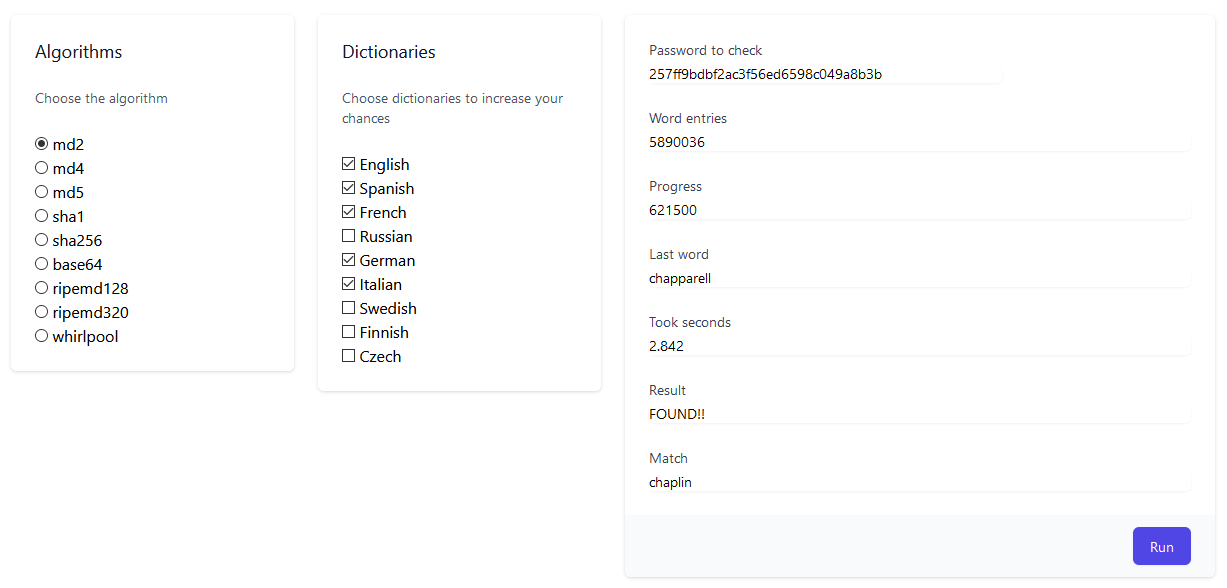
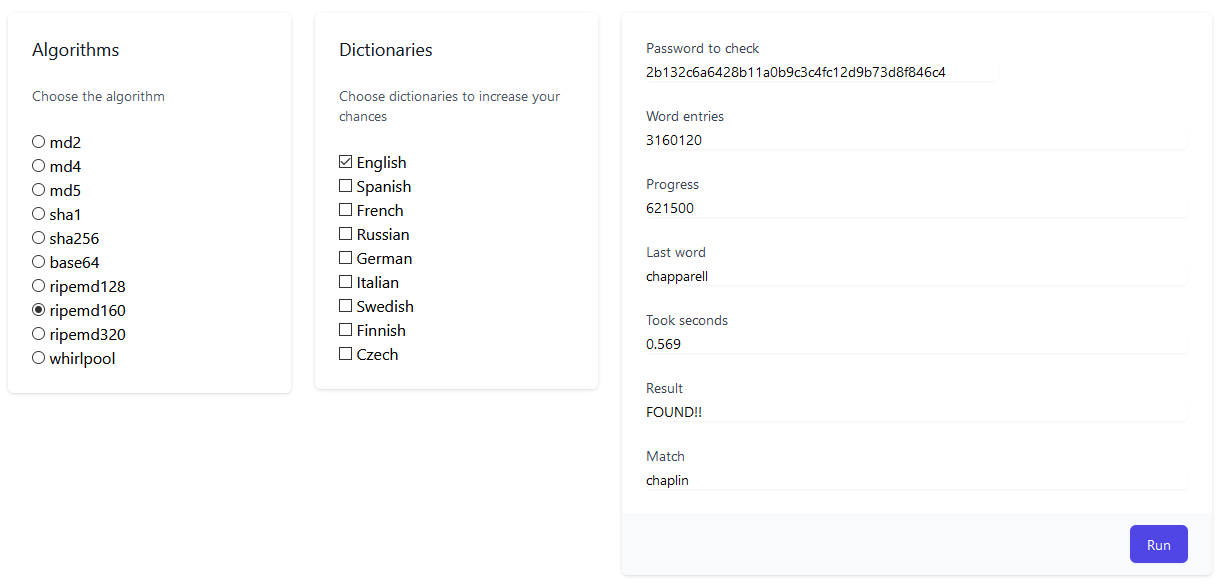
adding support for ripemd160

diff --git a/src/site/index.html b/src/site/index.html
@@ -46,6 +46,10 @@
                                 <label for="rbRipemd128">ripemd128</label>
                               </li>
                               <li>
+                                <input type="radio" id="rbRipemd160" name="rbAlgorithm" value="10"></input>
+                                <label for="rbRipemd160">ripemd160</label>
+                              </li>
+                              <li>
                                 <input type="radio" id="rbRipemd320" name="rbAlgorithm" value="7"></input>
                                 <label for="rbRipemd320">ripemd320</label>
                               </li>

diff --git a/src/ripper_wasm/src/algorithms.rs b/src/ripper_wasm/src/algorithms.rs
@@ -14,6 +14,7 @@ pub mod implementations {
         Ripemd320 = 7,
         Whirlpool = 8,
         Md2 = 9,
+        Ripemd160 = 10,
     }
 
     #[wasm_bindgen]
@@ -47,6 +48,7 @@ pub mod implementations {
     struct DesWrapper {}
     struct Des3Wrapper {}
     struct Ripemd128Wrapper {}
+    struct Ripemd160Wrapper {}
     struct Ripemd320Wrapper {}
     struct WhirlpoolWrapper {}
     struct Md2Wrapper {}
@@ -60,6 +62,7 @@ pub mod implementations {
                 HashAlgorithm::Md4 => Some(Box::new(Md4Wrapper { })),
                 HashAlgorithm::Sha1 => Some(Box::new(Sha1Wrapper { })),
                 HashAlgorithm::Ripemd128 => Some(Box::new(Ripemd128Wrapper { })),
+                HashAlgorithm::Ripemd160 => Some(Box::new(Ripemd160Wrapper { })),
                 HashAlgorithm::Ripemd320 => Some(Box::new(Ripemd320Wrapper { })),
                 HashAlgorithm::Whirlpool => Some(Box::new(WhirlpoolWrapper { })),
                 HashAlgorithm::Md2 => Some(Box::new(Md2Wrapper {})),
@@ -146,6 +149,22 @@ pub mod implementations {
         impl HashEncoder for Ripemd320Wrapper {
             fn encode(&self, input: &String) -> String { 
                 let result = Ripemd320::digest(input.as_bytes());
+                format!("{:x}", result)
+            }
+        }
+    }
+
+    mod ripemd160 {
+        use ripemd160::{Ripemd160, Digest};
+        use crate::algorithms::implementations::Ripemd160Wrapper;
+        use crate::HashEncoder;
+
+
+        impl HashEncoder for Ripemd160Wrapper {
+            fn encode(&self, input: &String) -> String {
+                let mut hasher = Ripemd160::default();
+                hasher.update(input);
+                let result = hasher.finalize();
                 format!("{:x}", result)
             }
         }
@@ -263,6 +282,7 @@ mod tests {
         hash_sha256: HashAlgorithm::Sha256,
         hash_base64: HashAlgorithm::Base64,
         hash_ripemd128: HashAlgorithm::Ripemd128,
+        hash_ripemd160: HashAlgorithm::Ripemd160,
         hash_ripemd320: HashAlgorithm::Ripemd320,
         hash_whirlpool: HashAlgorithm::Whirlpool,
     }
@@ -280,6 +300,7 @@ mod tests {
[1 lines of base64/hex data omitted]
         base64: (HashAlgorithm::Base64, "SGVsbG8gd29ybGQh"),
         ripemd128: (HashAlgorithm::Ripemd128, "d917d92bc5591a0915f70acebbc2b126"),
+        ripemd160: (HashAlgorithm::Ripemd160, "7f772647d88750add82d8e1a7a3e5c0902a346a3"),
[2 lines of base64/hex data omitted]
     }

diff --git a/src/ripper_wasm/src/lib.rs b/src/ripper_wasm/src/lib.rs
@@ -8,6 +8,7 @@ extern crate sha256;
 extern crate md4;
 extern crate sha1;
 extern crate ripemd320;
+extern crate ripemd160;
 extern crate ripemd128;
 extern crate whirlpool;
 extern crate md2;
@@ -60,6 +61,7 @@ mod tests {
[1 lines of base64/hex data omitted]
         match_sha1: ("3E047347D97C14169F3EA769B1F28CAF9D6A8E5D", HashAlgorithm::Sha1),
         match_ripemd128: ("1a147e58b2a2c6e3dedc94ac0eeee67b", HashAlgorithm::Ripemd128),
+        match_ripemd160: ("25fc9204b31e219e770f9b973b2f206b4049b732", HashAlgorithm::Ripemd160),
[2 lines of base64/hex data omitted]
     }

diff --git a/README.md b/README.md
@@ -17,6 +17,7 @@ Please, refer to each crate documentation and check its licensing.
 | `sha256`    | SHA-2 256| [![crates.io](https://img.shields.io/crates/v/sha256.svg)](https://crates.io/crates/sha256)|
 | `base64`    | Base64   | [![crates.io](https://img.shields.io/crates/v/base64.svg)](https://crates.io/crates/base64)|
 |`ripemd128`  | RIPEMD128 | [![crates.io](https://img.shields.io/crates/v/ripemd128.svg)](https://crates.io/crates/ripemd128)|
+|`ripemd160`  | RIPEMD160 | [![crates.io](https://img.shields.io/crates/v/ripemd160.svg)](https://crates.io/crates/ripemd160)|
 |`ripemd320`  | RIPEMD320 | [![crates.io](https://img.shields.io/crates/v/ripemd320.svg)](https://crates.io/crates/ripemd320)|
 |`whirlpool`  | WHIRLPOOL | [![crates.io](https://img.shields.io/crates/v/whirlpool.svg)](https://crates.io/crates/whirlpool)|
 
